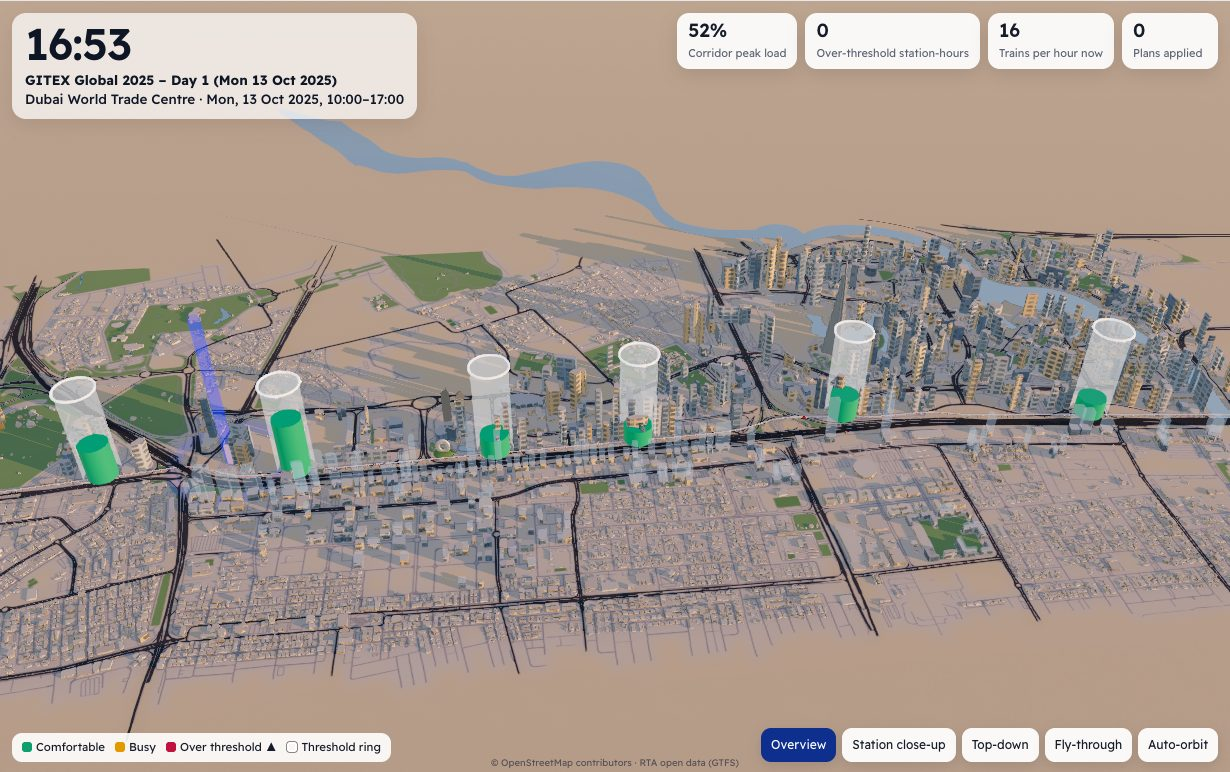
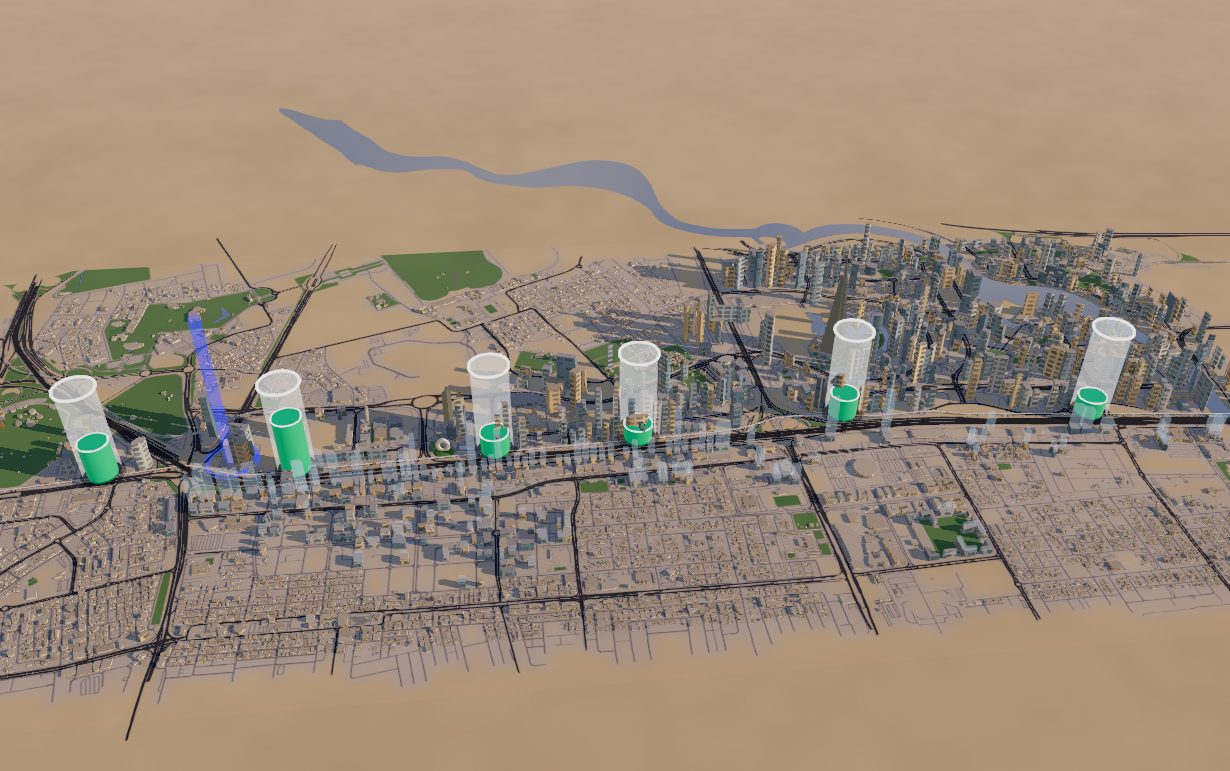
web: clean canvas-only loading poster; KPI row wraps clear of the map controls in narrow windows

diff --git a/apps/web/src/app/globals.css b/apps/web/src/app/globals.css
@@ -215,8 +215,9 @@ body.kiosk .tag { padding: 9px 12px; font-size: 14px; }
   .panel { border-inline-start: 0; border-block-start: 1px solid var(--line); flex: none; }
   .tabpanel { overflow: visible; }
   .view { min-height: 560px; flex: none; }
-  .viewtop { flex-direction: column; }
-  .kpis { justify-content: flex-start; gap: 6px; }
+  .viewtop { flex-direction: column; padding-inline-end: 52px; }       /* room for the map controls */
+  .kpis { justify-content: flex-start; gap: 6px; max-width: 100%; }
+  .mapctl { top: 12px; transform: none; }
   .kpi { min-width: 0; padding: 4px 9px; }
   .kpi b { font-size: 15px; }
   .clock { font-size: 30px; }

diff --git a/apps/web/tests/ui.spec.ts b/apps/web/tests/ui.spec.ts
@@ -156,7 +156,7 @@ test("landmarks: tap one and the camera frames it with its area", async ({ page 
 });
 
 test("overlays never overlap each other or the labels (wide and narrow)", async ({ page }) => {
-  for (const [w, h] of [[1920, 1080], [1280, 800], [860, 1000], [560, 1100]]) {
+  for (const [w, h] of [[1920, 1080], [1280, 800], [860, 1000], [545, 1100], [420, 900]]) {
     await page.setViewportSize({ width: w, height: h });
     await open(page);
     await settle(page, 2500);
